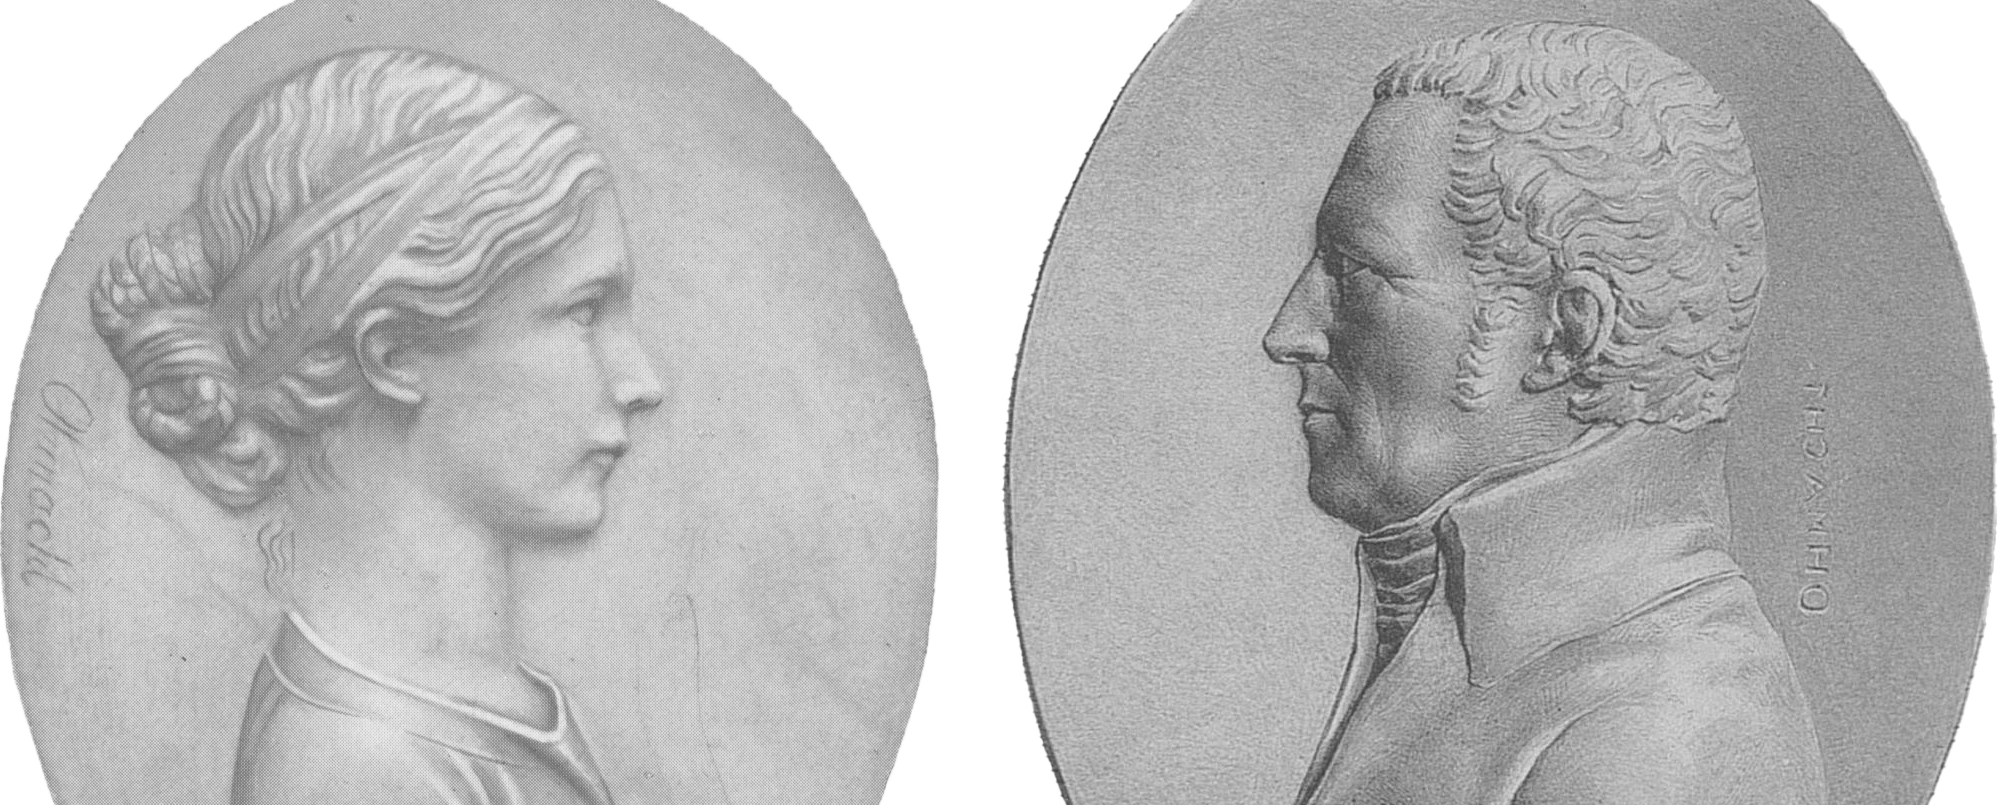
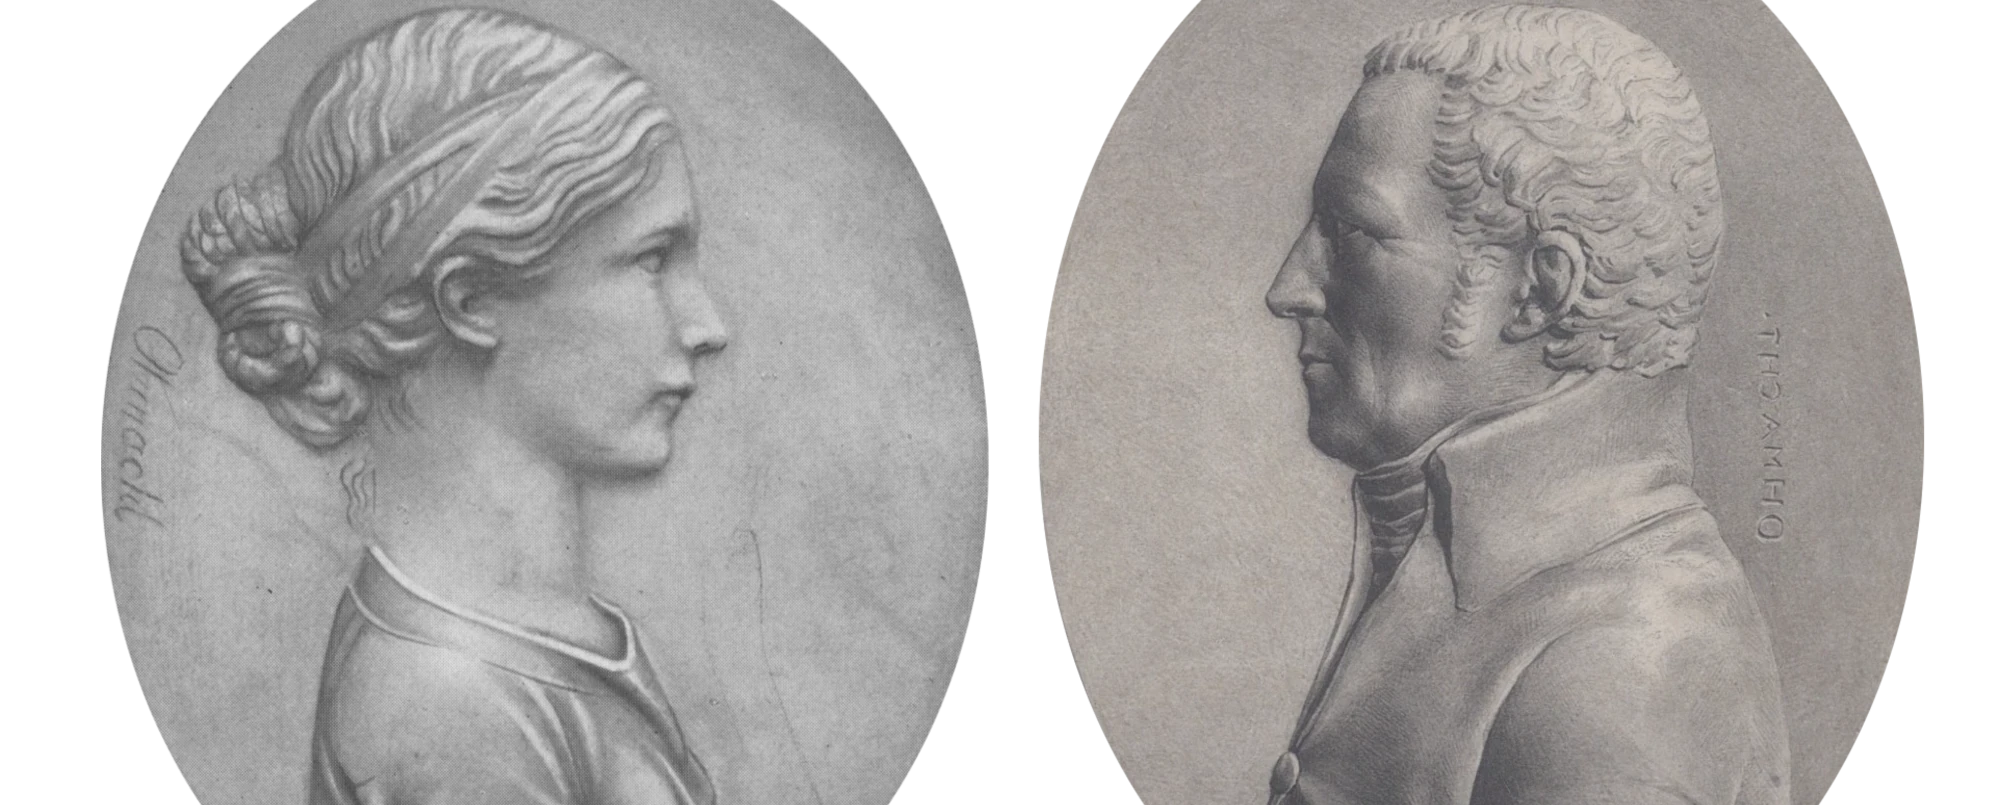
+Alabasterreliefe 6.2

diff --git a/src/content/objects/3_04_01_Brief_an_Koelle_1815_BLB.md b/src/content/objects/3_04_01_Brief_an_Koelle_1815_BLB.md
@@ -1,6 +1,7 @@
 ---
 quelle: "[BLB Online](https://nbn-resolving.org/urn:nbn:de:bsz:31-106389) / Public Domain Mark 1.0"
 slug: "brief-an-koelle-1814"
+transkription: true
 titel: "Brief an Kölle, 25. Oktober 1814"
 urheber: "Johann Peter Hebel"
 datierung: "1814"
@@ -9,3 +10,7 @@ inventarnummer: "K 3071,1"
 bilder:
   - bild: "3_04_01_Brief_an_Koelle_1815_BLB"
 ---
+
+# Transkription
+
+Hier endlich, theuerster, ein vollständiges Exempl. des unglücklichen Calenders. Das Seltsame an der bereits im M[orgen] B[latt] berührten Geschichte ist nicht die Unterdrückung des anstößigen, oder viel mehr an- u. umgestoßenen Aufsatzes, sondern die Art. Man hat, so zu sagen das Kind im Mutterleib getödet. Der Cal. war noch gar nicht zur Ausgabe reif, es lag der 4te Correkturbogen noch vor mir, als die schleunigsten u. durchgreifendsten Vorkehrungen gegen die Ausbreitung getroffen worden. Man hatte das officielle Feurio schon in das ganze Land ausgerufen, u. behauptete noch immer der Calender sei ganz u. fertig, und es fehlt noch immer iedem obsignirten Ex. der 4te Bogen. Wären sie bedachtsam gewesen, hätten sie früher gelesen als verdammt, so hätte sich alles mit Glimpf ändern lassen, u. kein Mensch hätte erfahren, daß iemals eine Anekdote im C. stand, die iezt iedermann weiß u. list. Mir ist noch kein gutes oder böses Wort officiell oder halb- darüber gesagt worden. Man ist begierig, wer die Schadloshaltung für die Herausgeber tragen wird. Diese sind durch die Censurerlaubniß, der Censor (Herr v. Rüdt der lange) durch die Censurordnung gedekt. Nicht wahr lieber [...]

diff --git a/src/content/objects/HuF_6_2_Slide_1_Relief_SH_Ohmacht_TSS.md b/src/content/objects/HuF_6_2_Slide_1_Relief_SH_Ohmacht_TSS.md
@@ -1,15 +1,12 @@
 ---
-quelle: "Landolin Ohmacht"
+quelle: "[Sophie Haufe:] Sophie Haufe, *Zeit und Hebelerinnerungen der Straßburger Hebelfreundin Frau Sophie Haufe.* Bearbeitet und herausgegeben von Adolf Sütterlin. Karlsruhe 1928.<br>[Hebel:] Johann Peter Hebel, *Briefe von J. P. Hebel. Erste Sammlung [...]* Hrsg. v. Otto Behaghel. Verlag von H. Reuther. Karlsruhe, 1883. Beilage"
 slug: "ohmacht-alabasterrelief-sophie-haufe"
-titel: "Alabasterrelief von Sophie Haufe"
+titel: "Alabasterrelief von Sophie Haufe, Hebel"
 urheber: "Landolin Ohmacht"
 materialTechnik: "Alabasterrelief"
 institution: "Hebel-Archiv Heidelberg"
-inventarnummer: "101B07"
+inventarnummer: "[Sophie Haufe:] 101B07<br>[Hebel:] 101B06"
 bilder:
   - bild: "HuF_6_2_Slide_1_Relief_SH_Ohmacht_TSS"
+  - bild: "HuF_6_2_Hero_Image_Relief_Hebel_Ohmacht_TSS"
 ---
-
-# Beschreibung
-
-Alabasterrelief von Sophie Haufe von Landolin Ohmacht, der auch Hebel in dieser Weise porträtierte.

diff --git a/src/content/objects/1_05_01_Stammbuch_Rheinwald_BLB.md b/src/content/objects/1_05_01_Stammbuch_Rheinwald_BLB.md
@@ -27,6 +27,9 @@ die andern mag der Teufel holen<br>
 
 [mittig rechts, Hebel] Todt
 
+[links unten, v. Rheinwald] Erlang d. 9ten 7bris<br>
+1779
+
 [rechts unten, v. Rheinwald] Zum Denkmal ewiger Freund-<br>
 schaft schrieb’s dein aechter<br>
 Freund Bruder u. Landsmann<br>

diff --git a/src/content/images/HuF_6_2_Hero_Image_Relief_Hebel_Ohmacht_TSS.md b/src/content/images/HuF_6_2_Hero_Image_Relief_Hebel_Ohmacht_TSS.md
@@ -1,0 +1,5 @@
+---
+dateiname: "Bilder/6-2/HuF_6_2_Hero_Image_Relief_Hebel_Ohmacht_TSS.webp"
+altText: "Profilrelief von Johann Peter Hebel"
+beschriftung: "Alabasterrelief von Johann Peter Hebel von Landolin Ohmacht."
+---
